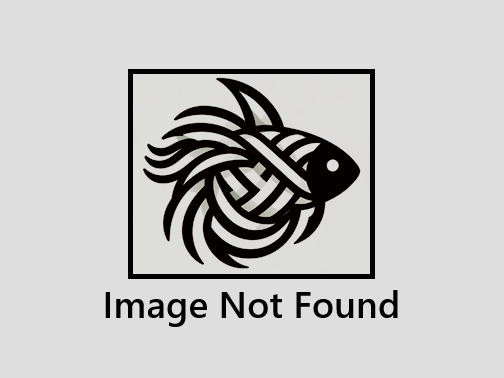
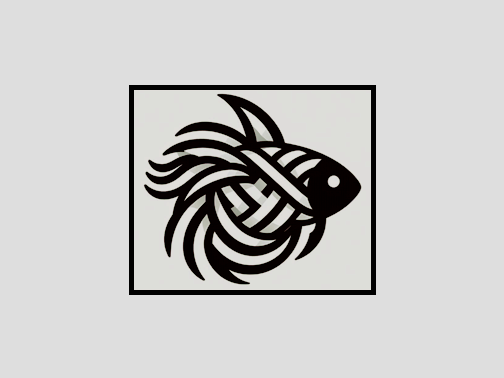
Aquarists page UI cleanup
Tweak bootstrap 5 classes used in aquarists.html template
Make placeholder image more generic less an error condition
Fix aquarists search to exclude private names from text search

Changed region(s): [[0.2083, 0.1746, 0.8036, 0.873]]

diff --git a/speciesnet/species/templates/species/aquarists.html b/speciesnet/species/templates/species/aquarists.html
@@ -3,9 +3,9 @@
 {% block content %}
 
 <div class="home-container">
-    <div class="container py-4">
+    <div class="container py-1">
         <!--div class="card mb-4"-->
-        <h2 class="mb-4">Aquarists</h2>
+        <h2 class="mb-2">Aquarists</h2>
         <div class="card h-100 shadow-sm bg-secondary rounded">
             <div class="card-body bg-secondary">
                 <form method="get" id="filter-form">
@@ -58,13 +58,13 @@
             </div>
         </div>
     </div>
-    <div class="container py-4">
-        <h2 class="mb-4">Recent Updates</h2>
+    <div class="container py-1">
+        <h2 class="mb-2">Recent Updates</h2>
         {% if recent_speciesInstances %}
             <!--div class="row row-cols-1 row-cols-sm-2 row-cols-md-3 row-cols-lg-4 g-4"-->
             <!--row-cols-1 smallest screen, row-cols-2 small screen, row-cols-3 medium screen, row-cols-4 large screen-->
             <!--g-4 adds gutter spacing between columns: 1.5 rem or 24 px-->
-            <div class="row row-cols-1 row-cols-sm-2 row-cols-md-3 g-4">
+            <div class="row row-cols-1 row-cols-sm-1 row-cols-md-2 row-cols-lg-3 row-cols-xl-3 g-3">
                 {% for speciesInstance in recent_speciesInstances %}
                     <div class="col">
                         <div class="card h-100 shadow-sm bg-secondary">

diff --git a/speciesnet/species/views.py b/speciesnet/species/views.py
@@ -208,7 +208,7 @@ class AquaristListView(ListView):
             queryset = queryset.filter (Q(username__icontains   = query_text) | 
                                         Q(first_name__icontains = query_text) | 
                                         Q(last_name__icontains  = query_text) )
-        queryset = queryset.exclude(is_private_name=True)
+            queryset = queryset.exclude(is_private_name=True)
         return queryset
     
     def get_context_data(self, **kwargs):
